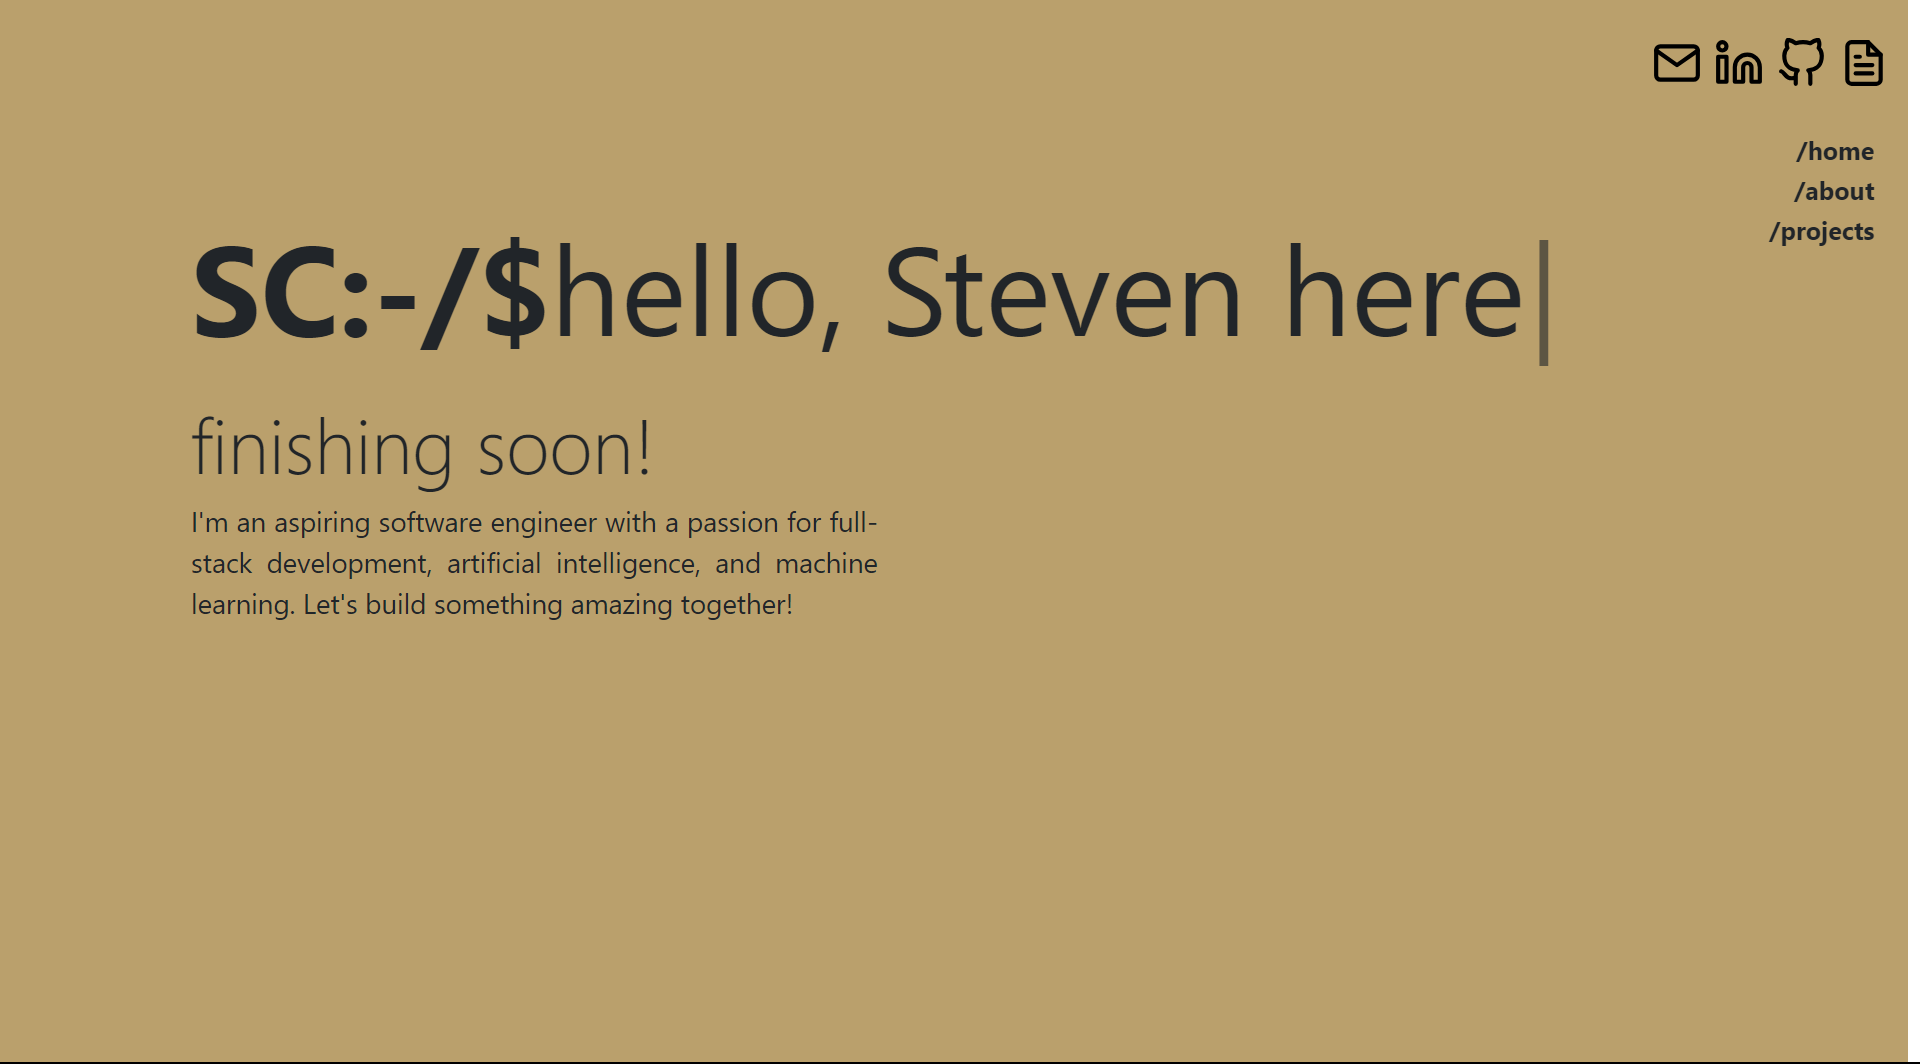
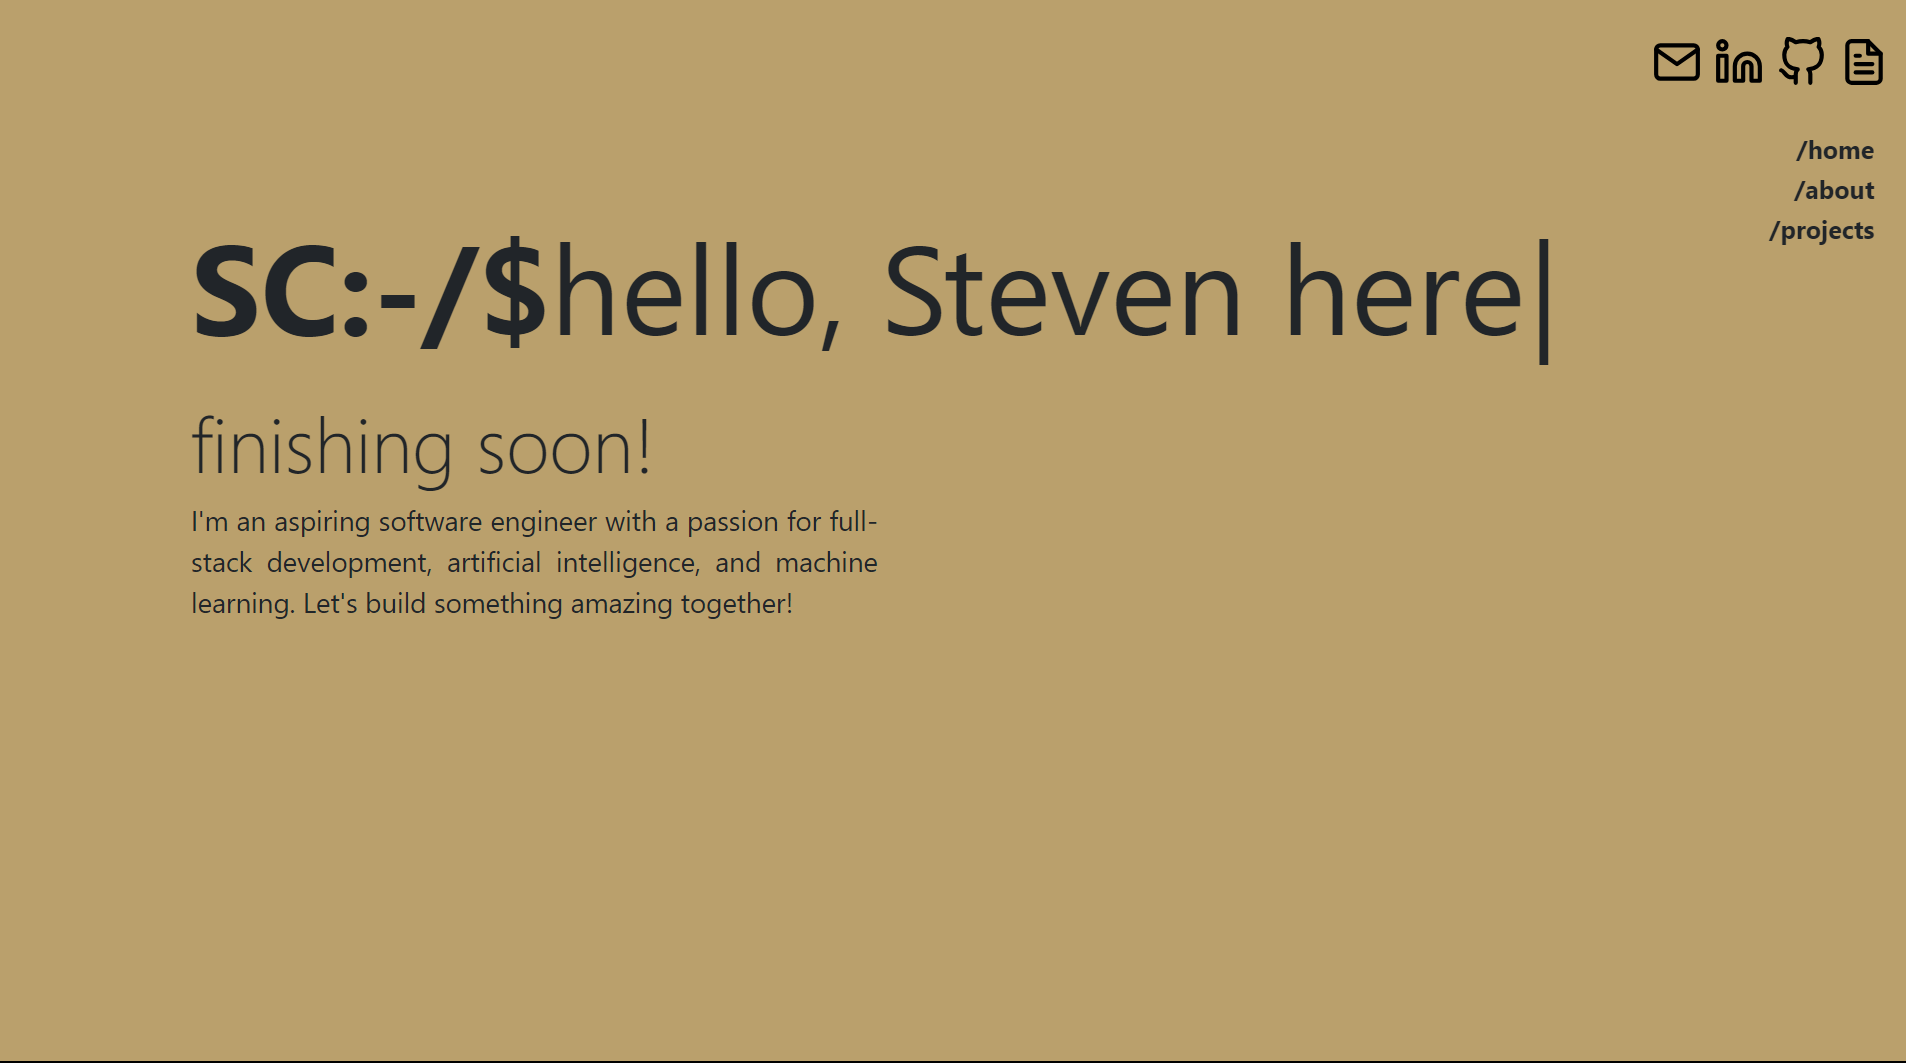
final update

diff --git a/src/components/Projects.tsx b/src/components/Projects.tsx
@@ -8,9 +8,9 @@ import "bootstrap/dist/css/bootstrap.css";
 
 const Projects = () => {
   const projects = [
-    { title: 'Secure Surf', description: 'Description 1', imageUrl: '/public/images/website.png' },
-    { title: 'GeoHarbin', description: 'Description 2', imageUrl: '/public/images/website.png' },
-    { title: 'My Website!', description: 'Description 2', imageUrl: '/public/images/website.png' }
+    { title: 'GeoHarbin', description: 'A GeoSpatial framework for the city of Harbin', imageUrl: '/images/geoHarbin.png' },
+    { title: 'Secure Surf', description: 'Web app + Twilio text bot for testing domain safety. Trained with gpt-3.5-turbo', imageUrl: '/images/secure_surf.png' },
+    { title: 'My personal Website!', description: 'Built with Next.js, TypeScript and React.js', imageUrl: '/images/website.png' }
     // more projects in the future
   ];
 

diff --git a/src/components/Intro.tsx b/src/components/Intro.tsx
@@ -15,11 +15,14 @@ const Intro: React.FC = () => {
             />
           </span>
         </div>
-      <div className={styles["intro-subtitle"]}>
-        <Typewriter 
-          words={['Good things take time...', 'finishing soon!']}         
-        />   
-        </div>
+        <div className={styles["intro-subtitle"]}>
+          <Typewriter 
+        words={['Check out my Newsletter!']}
+        />
+      </div>
+      <div className={styles["intro-link"]}>
+        <a href="https://thedigitalpulse.substack.com/" target="_blank" rel="noopener noreferrer">The Digital Pulse</a>    
+      </div>
       <div className={styles["intro-desc"]}>
         I&apos;m an aspiring software engineer with a passion for full-stack
         development, artificial intelligence, and machine learning. Let&apos;s

diff --git a/src/styles/Intro.module.css b/src/styles/Intro.module.css
@@ -7,13 +7,21 @@
   min-height: 100vh;
 }
 
+.intro-link {
+  margin-top: -15px;
+  font-family: var(--font-ntr);
+  color: rgb(219, 214, 196);
+  font-weight: 300;
+  font-size: 2.5vw;
+}
+
 .cmd-style {
   display: flex;
   align-items: baseline;
   justify-content: flex-start;
   flex-flow: row nowrap;
   width: 100%;
-  padding-bottom: 3%;
+  padding-bottom: 2%;
 }
 
 .intro-title {
@@ -33,7 +41,7 @@
   font-family: var(--font-ntr);
   color: var(--description);
   font-weight: 300;
-  font-size: 4vw;
+  font-size: 3.5vw;
 }
 
 .intro-desc {
@@ -41,7 +49,7 @@
   font-family: var(--font-ntr);
   font-size: 22px;
   max-width: 40%;
-  text-align: justify;
+  text-align: flex-start;
   padding-bottom: 50px;
 }
 

diff --git a/src/styles/Projects.module.css b/src/styles/Projects.module.css
@@ -51,7 +51,6 @@
   cursor: default;
   display: flex;
   flex-direction: column;
-  /* align-items: flex-start; */
   justify-content: space-between;
   position: relative;
   height: 100%;

diff --git a/src/styles/About.module.css b/src/styles/About.module.css
@@ -2,7 +2,7 @@
   padding-left: 15%;
   padding-right: 25%;
   padding-top: 0;
-  padding-bottom: 5%;
+  padding-bottom: 15%;
   margin: auto;
 }
 
